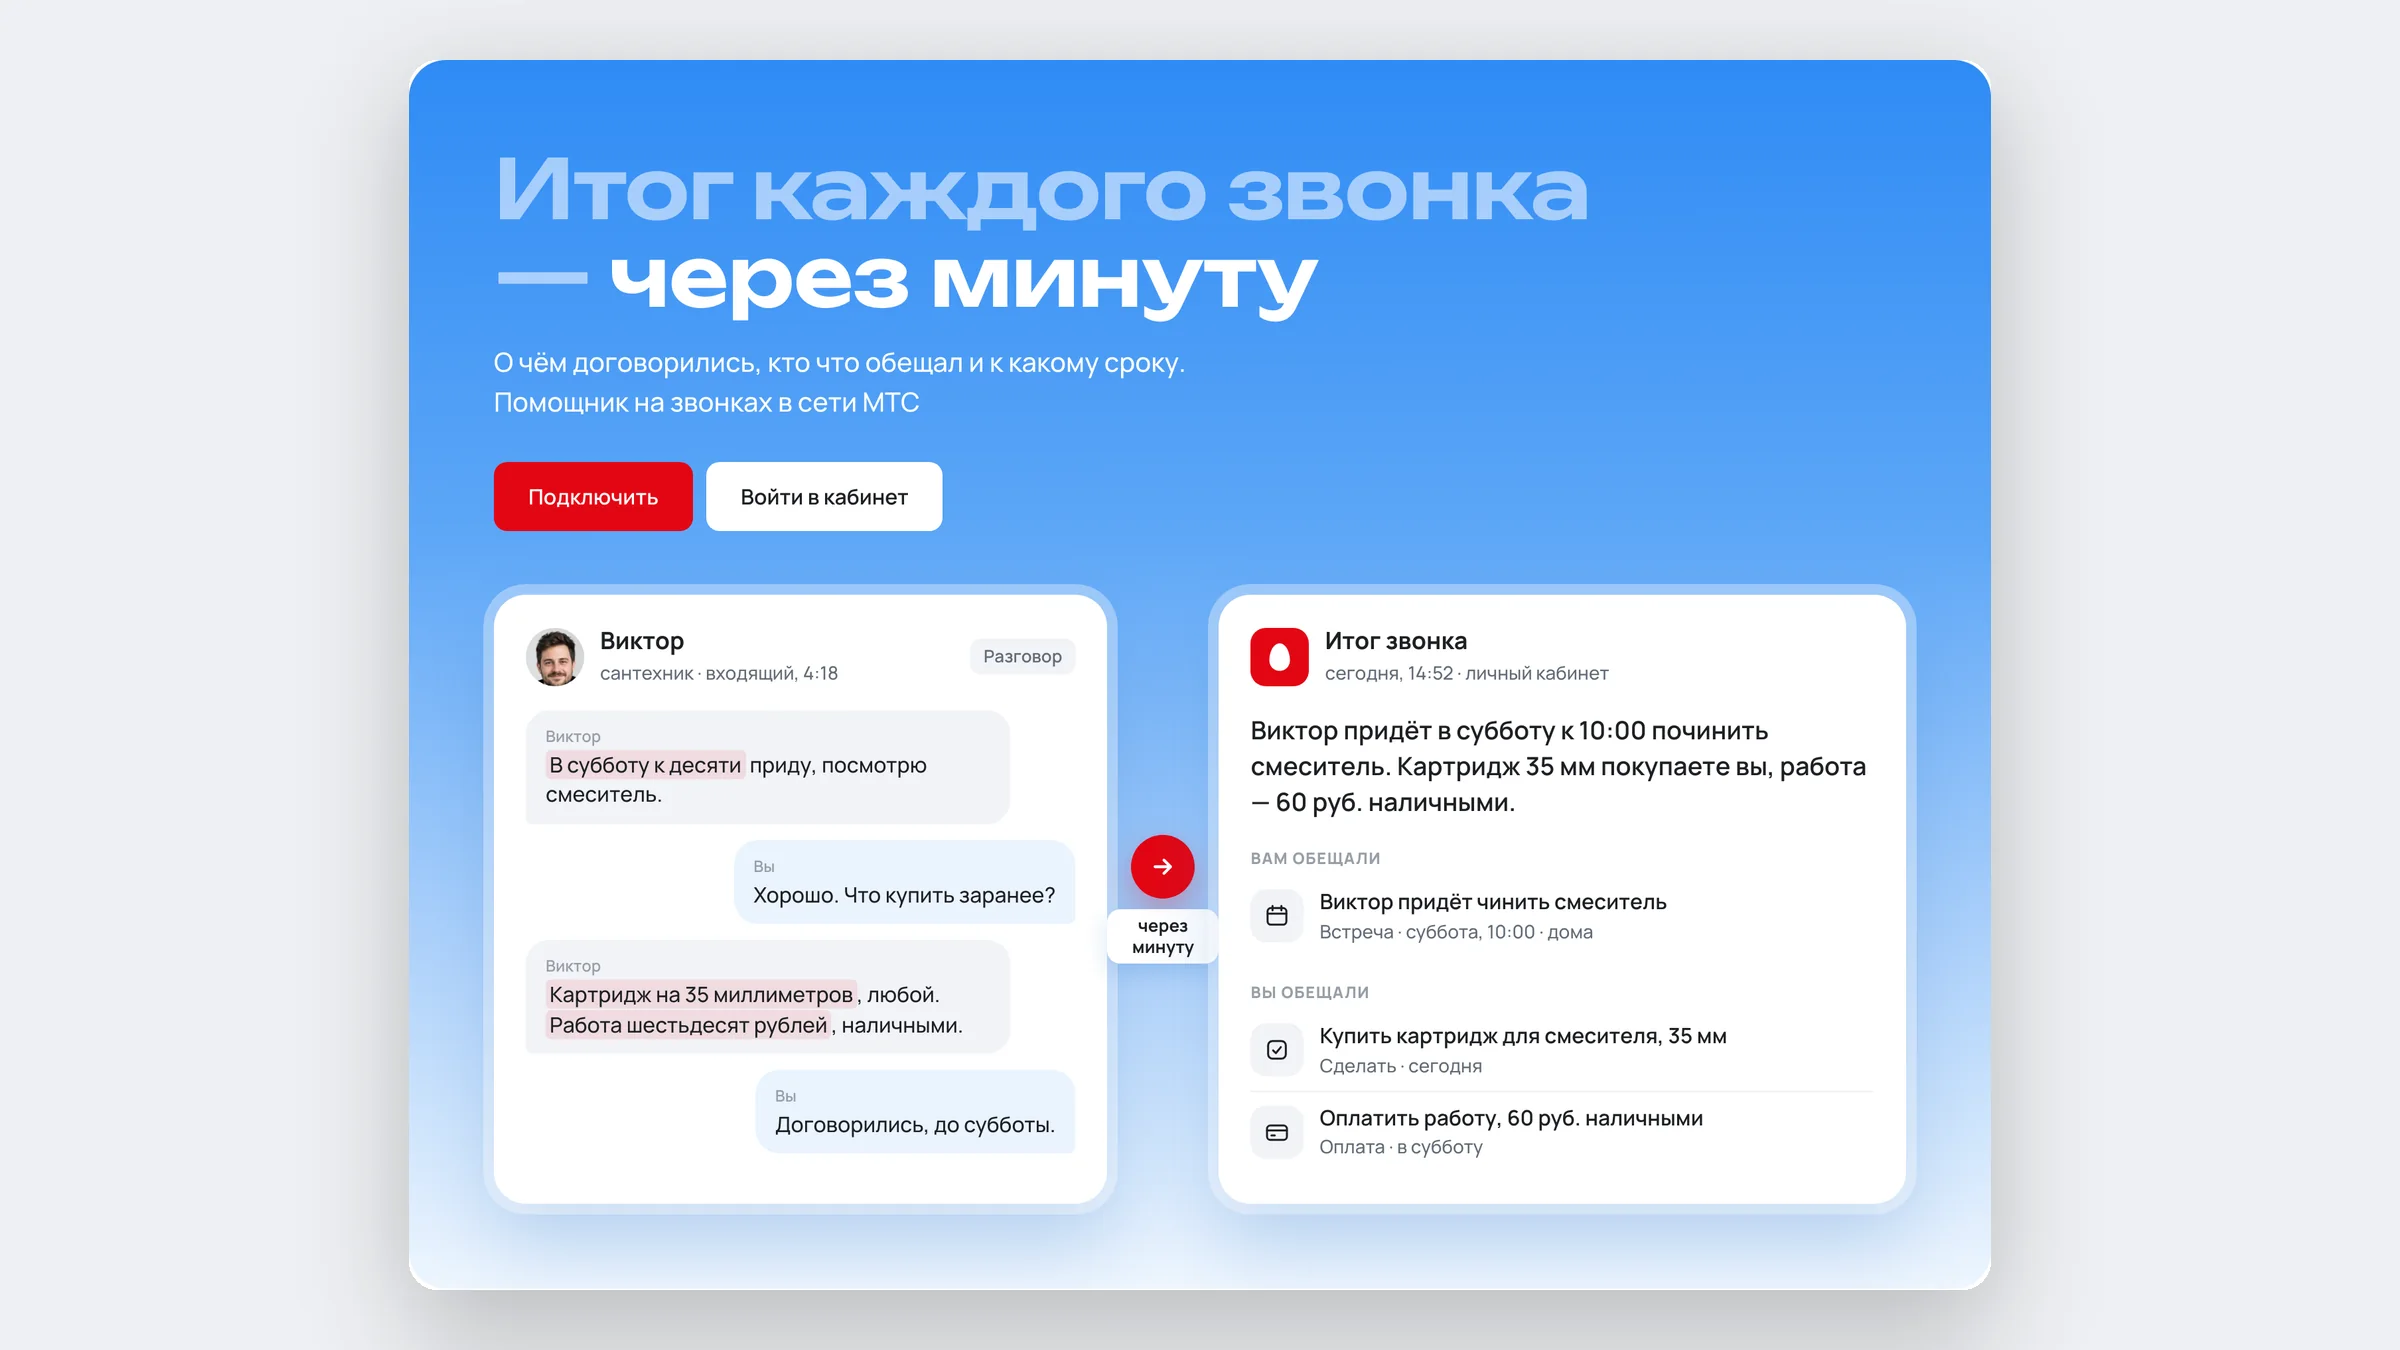
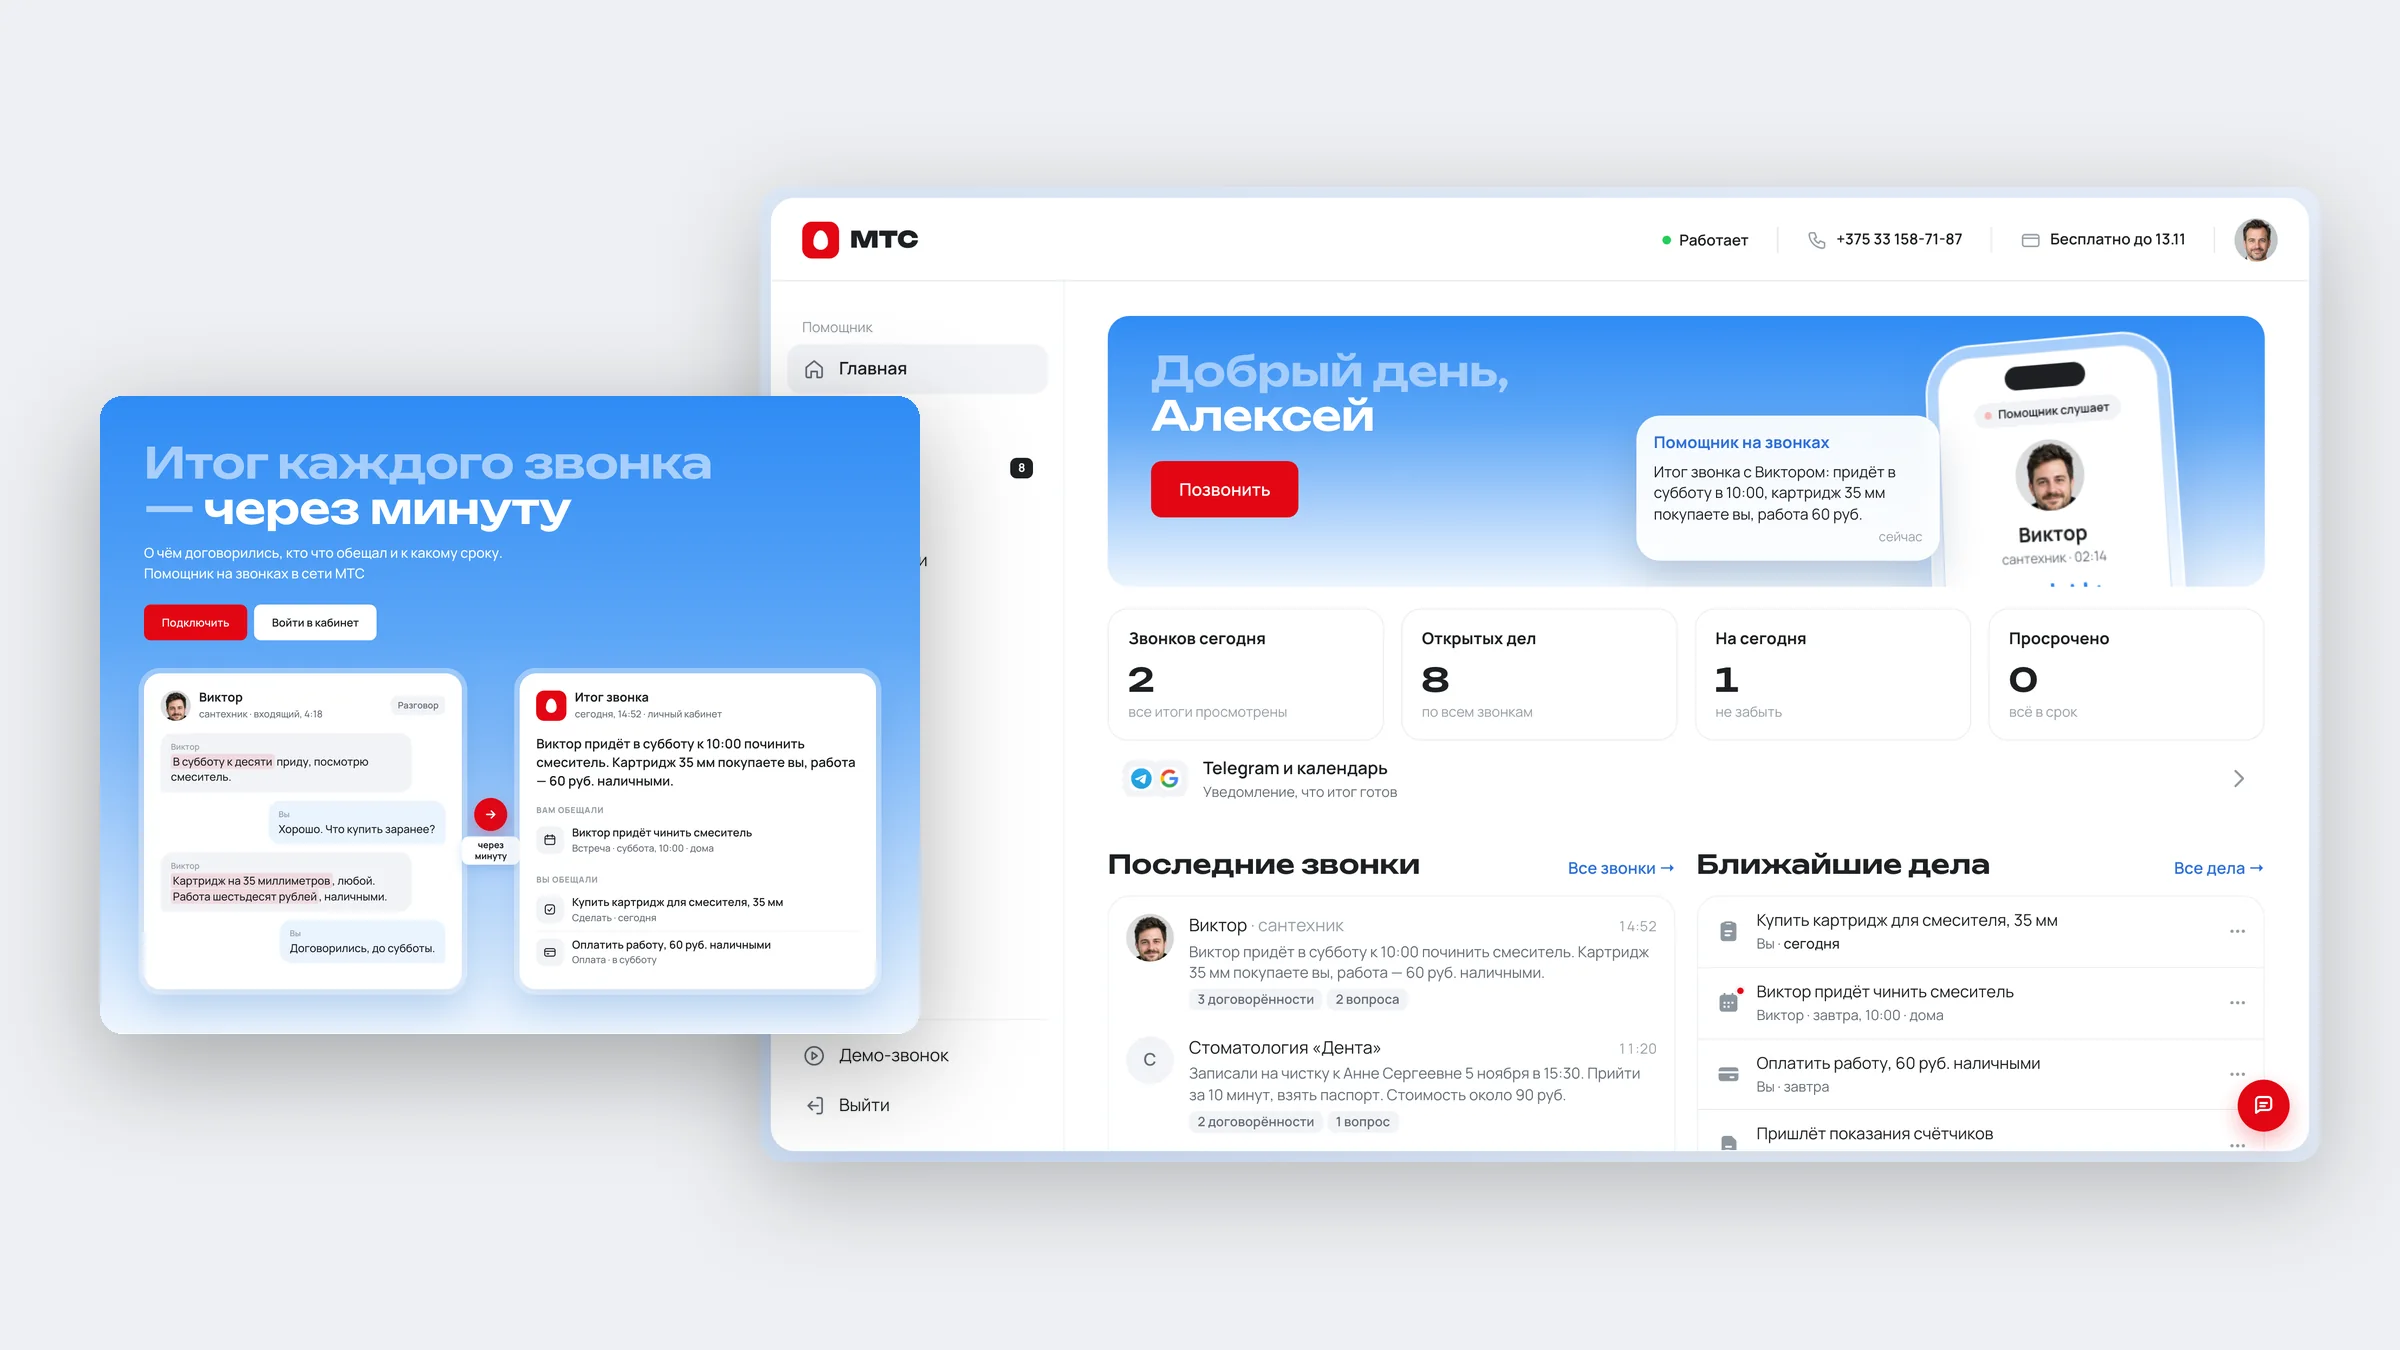
МТС: обложка с кабинетом платформы и баннером лендинга

diff --git a/mts.html b/mts.html
@@ -7,7 +7,7 @@
 <meta name="description" content="Кейс МТС «Помощник на звонках»: продукт для абонентов, личный кабинет на компьютере и в телефоне, онбординг, лендинг, дизайн-система в Figma и живой прототип, который стал фронтом.">
 <meta name="robots" content="noindex">
 <meta property="og:title" content="МТС · Помощник на звонках — кейс Вики Ахрамович">
-<meta property="og:image" content="img/mts/cover.webp">
+<meta property="og:image" content="img/mts/cover.webp?v=2">
 <link rel="icon" href="favicon.svg" type="image/svg+xml">
 <link rel="preconnect" href="https://fonts.googleapis.com">
 <link rel="preconnect" href="https://fonts.gstatic.com" crossorigin>
@@ -36,8 +36,8 @@
   </header>
 
   <figure class="hero-media reveal">
-    <img src="img/mts/cover.webp" alt="Первый экран лендинга «Помощник на звонках»">
-    <figcaption>Первый экран лендинга: разговор слева, итог звонка справа, между ними «через минуту»</figcaption>
+    <img src="img/mts/cover.webp?v=2" alt="Кабинет и лендинг «Помощник на звонках»">
+    <figcaption>Кабинет услуги и первый экран лендинга: разговор, итог звонка и «через минуту» между ними</figcaption>
   </figure>
 
   <section class="nums done">

diff --git a/index.html b/index.html
@@ -59,7 +59,7 @@
       <div class="case__head reveal"><span>02.</span><span class="hide-m">Услуга для абонентов МТС · продуктовый дизайнер</span><span class="dim hide-m">октябрь — ноябрь 2026</span><a href="http://77.237.241.242:8083/pomogai/partner/" target="_blank" rel="noopener">лендинг ↗</a></div>
       <div class="case__title reveal"><h2>МТС · Помощник на&nbsp;звонках</h2><p>После выигранного хакатона делаем продукт вместе с МТС: сценарии, личный кабинет, онбординг, лендинг и дизайн-система.</p></div>
       <a class="cover" href="mts.html" data-cursor="Смотреть кейс" aria-label="Кейс МТС · Помощник на звонках">
-        <img src="img/mts/cover.webp" alt="Лендинг и кабинет «Помощник на звонках»" loading="lazy">
+        <img src="img/mts/cover.webp?v=2" alt="Лендинг и кабинет «Помощник на звонках»" loading="lazy">
       </a>
       <div class="case__tags reveal"><span>Продукт</span><span>Сценарии</span><span>Платформа</span><span>Онбординг</span><span>Мобильная версия</span><span>Лендинг</span><span>Дизайн-система</span><span>Figma</span></div>
     </article>
